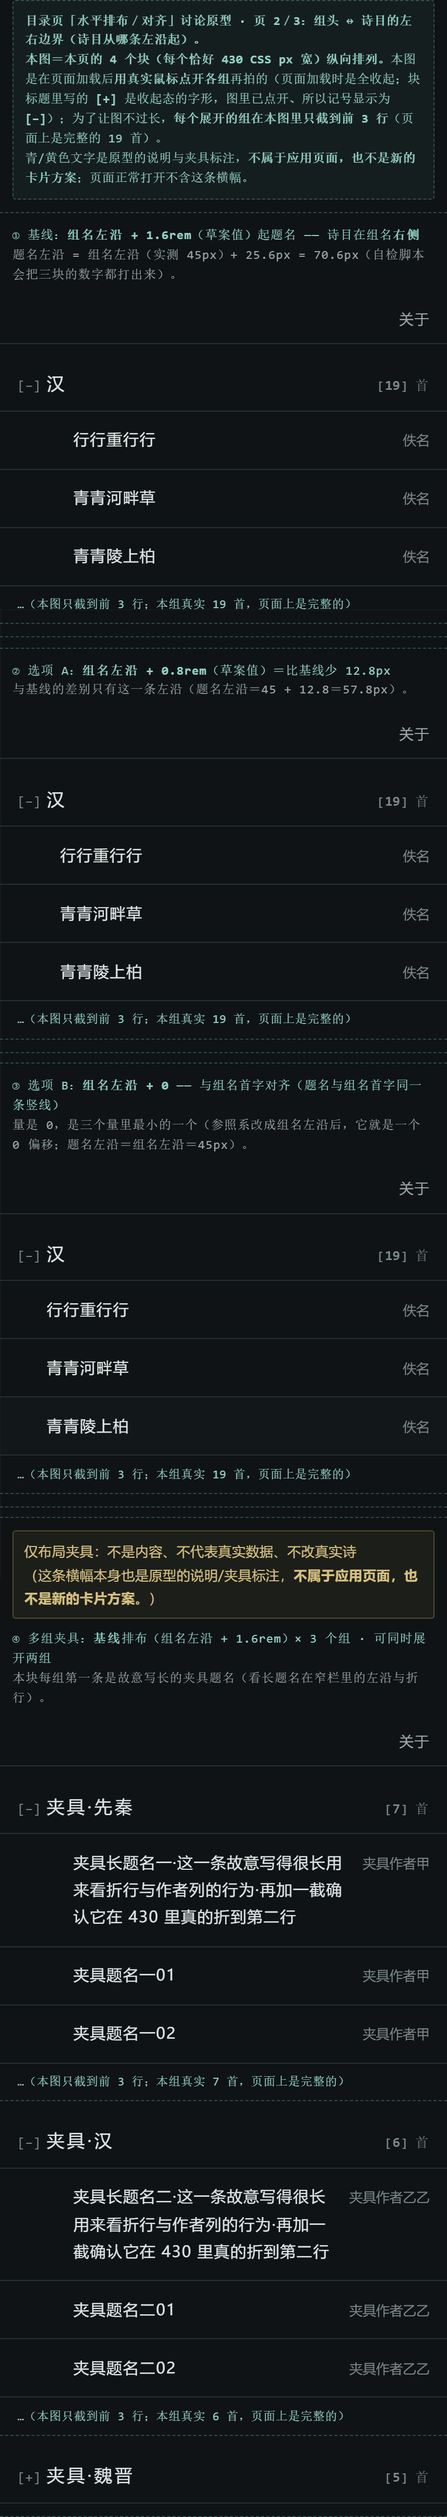
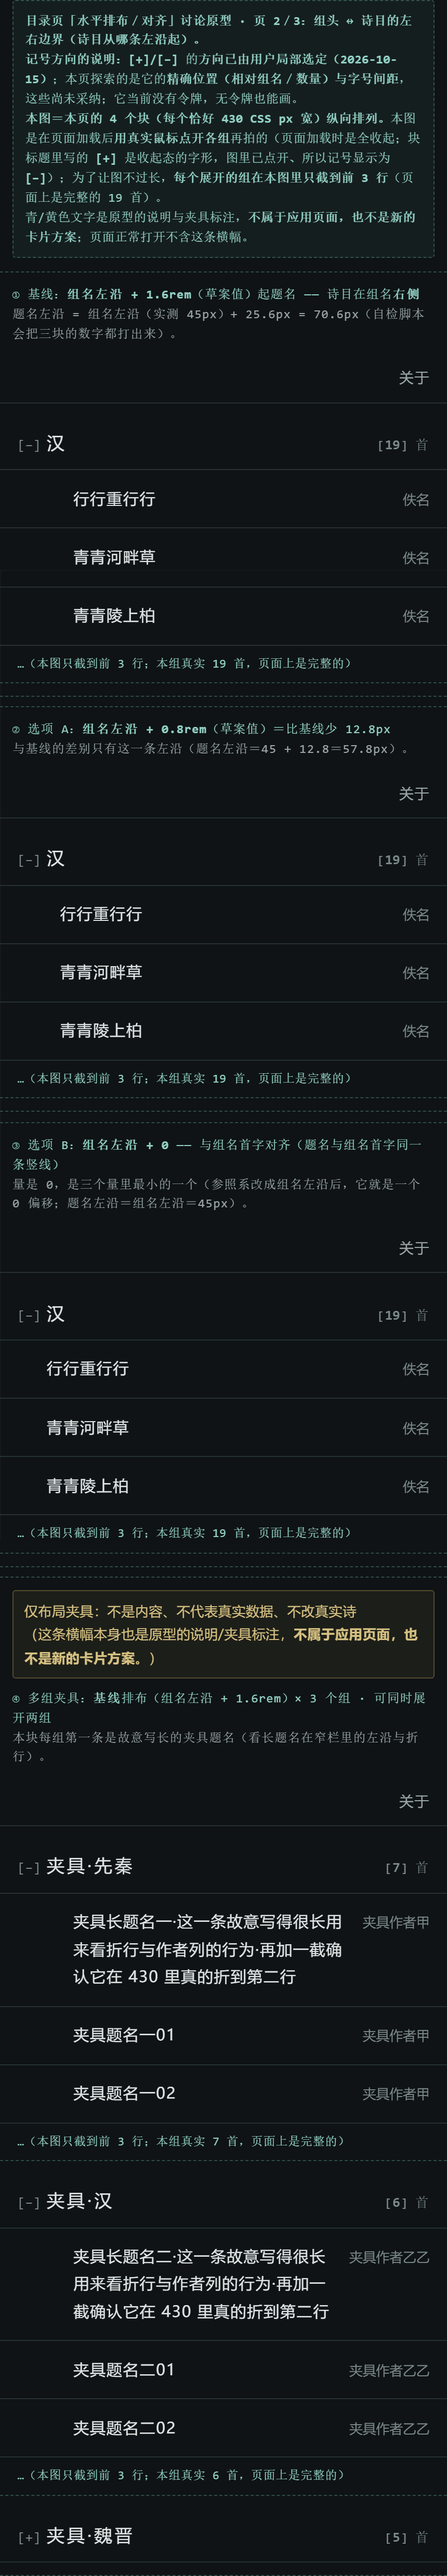
原型措辞返修：方括号记号的方向已局部选定（未采纳的是位置/字号/间距）
- 三页页内说明（「本页固定不变」那一条 + 页 1「两种方括号不是一回事」+ CSS 注释）改成：
  方向已由用户局部选定(2026-10-15)；本轮探索的是精确位置(相对组名/数量)与字号间距（尚未采纳）；
  方向已选不代表本页任何位置已定稿；当前无令牌、无令牌也能画
- 图首横幅也带同一句（图里能看到），三页 HTML 与三张 430 图重出
- q-hub-horizontal.md：同一口径（§1 不变清单、§5 输入依据、§8、§10 一并同步）
- q-hub-hierarchy.md：只加一条就地指针（§6 下），说明其「两个记号都不算已采纳」只对当时成立
- 断言逻辑未改，重跑 142 PASS / 0 FAIL

diff --git a/items/app-ui/prototypes/q-hub-horizontal.head.html b/items/app-ui/prototypes/q-hub-horizontal.head.html
@@ -215,7 +215,8 @@ html[data-shot="1"] .glist > .poemrow:nth-child(n+4) { display: none; }
   padding: 0.85rem var(--edge-x) 0.7rem;
   cursor: pointer;
 }
-/* [−] / [+] 只表达状态，是探索记号（不算已采纳、没有令牌） */
+/* [−] / [+] 只表达状态。它的**方向**已由用户局部选定（2026-10-15）；本轮探索的是它的
+ *   精确位置（相对组名／数量）与字号间距——尚未采纳；它当前没有令牌，无令牌也能画。 */
 .hub .gmark {
   flex: 0 0 auto;
   font-family: var(--font-mono);
@@ -287,11 +288,11 @@ html[data-shot="1"] .glist > .poemrow:nth-child(n+4) { display: none; }
       <li>视觉＝<b>静默终端令牌</b>（深墨底那套）；<b>不画卡片</b>：组头与页底同色，层级靠留白／缩进与发丝线。</li>
       <li>信息只有四项：<b>组名＋数量</b>、<b>诗题＋作者</b>（作者次要）；只有一个入口「<b>关于</b>」，<b>在顶部</b>。</li>
       <li>🚫 不出现：搜索／应用名／笔记标记／题名预览／状态位／版本号／其它任何信息。</li>
-      <li><code>[+]/[−]</code> 方括号开合记号<b>只表达状态</b>，是<b>探索记号</b>（不算已采纳、也没有令牌）。</li>
+      <li><code>[+]/[−]</code> 方括号开合记号<b>只表达状态</b>。<b>它的方向已由用户局部选定（2026-10-15）</b>；<b>本轮探索的是它的精确位置（相对组名／数量）与字号间距 —— 这些尚未采纳</b>，整页排布也尚未采纳。<b>方向已选，不代表本页任何位置是已定稿。</b>另：它<b>当前没有对应令牌</b>，这<b>不妨碍表达</b>（无令牌也能画）。</li>
       <li>行为（三页一致）：首次进入<b>全部收起</b>（单组也收起）· <b>整个组头可点</b>（组名／空白／数量／记号任一处）· 各组<b>独立</b>展开（<b>可同时展开两组</b>，不是手风琴）。</li>
     </ul>
     <p>这一页只改<b>组头内部</b>的水平排布：记号在组名的哪一侧、数量靠右还是紧跟。诗目那边（页 2 的维度）与题名／作者（页 3 的维度）本页<b>不动</b>，都按各自基线画。</p>
-    <p><b>两种方括号不是一回事</b>：<code>[+]/[−]</code> 是<b>状态记号</b>（探索记号，不算已采纳、没有令牌），数量的 <code>[19]</code> 是<b>计数记号</b>（令牌 §4.1 记号②）。本页要看的正是它们在水平方向上各自站在哪里。</p>
+    <p><b>两种方括号不是一回事</b>：<code>[+]/[−]</code> 是<b>状态记号</b>（<b>方向已由用户局部选定</b>，2026-10-15；本页探索的是它的<b>精确位置与字号间距</b>，这些尚未采纳；它当前没有令牌，无令牌也能画），数量的 <code>[19]</code> 是<b>计数记号</b>（令牌 §4.1 记号②）。本页要看的正是它们在水平方向上各自站在哪里。</p>
     <p>选项 A 里记号的槽宽 <code>1.7rem</code> 是<b>草案值</b>（规范里没有这个数）。三页的块左／右沿＝屏幕左／右沿（为了让每块恰好 430）；真机的页面留白这一层不在本轮表达。</p>
     <p>诗目缩进在三页都用<b>同一条规则</b>：<b>组名左沿 + 1.6rem（草案值）</b>。所以本页选项 A（悬挂）把组名左沿左移之后，<b>诗目缩进会跟着组名走</b>（相对量不变、绝对值变小）——见块 ② 的实测数字。</p>
     <p><b>块宽＝真实 430 CSS px</b>（四处对齐都按这个宽度渲染）；<b>真实内容（汉·19 首）与多组夹具分开</b>，夹具块有醒目标注。</p>
@@ -301,7 +302,7 @@ html[data-shot="1"] .glist > .poemrow:nth-child(n+4) { display: none; }
     <h2>【本页的四个块】① 基线 ②③ 两个选项 ④ 多组夹具</h2>
     <p class="sub">四个块各自独立、都在真实 430 CSS px 宽下渲染，都可点（首态全收起）。① ② ③ 用<b>真实内容</b>（汉·19 首），④ 用<b>多组夹具</b>。</p>
     <div class="shotframe" data-shotframe>
-      <div class="shotbanner"><b>目录页「水平排布／对齐」讨论原型 · 页 1／3：组头内部（记号相对组名的位置／数量的位置）。</b><br><b>本图＝本页的 4 个块（每个恰好 430 CSS px 宽）纵向排列。</b>本图是在页面加载后<b>用真实鼠标点开各组</b>再拍的（页面加载时是全收起；块标题里写的 <b>[+]</b> 是收起态的字形，图里已点开、所以记号显示为 <b>[−]</b>）；为了让图不过长，<b>每个展开的组在本图里只截到前 3 行</b>（页面上是完整的 19 首）。<br>青/黄色文字是原型的说明与夹具标注，<b>不属于应用页面，也不是新的卡片方案</b>；页面正常打开不含这条横幅。</div>
+      <div class="shotbanner"><b>目录页「水平排布／对齐」讨论原型 · 页 1／3：组头内部（记号相对组名的位置／数量的位置）。</b><br><b>记号方向的说明：</b><b>[+]/[−]</b> 的<b>方向已由用户局部选定（2026-10-15）</b>；本页探索的是它的<b>精确位置（相对组名／数量）与字号间距</b>，这些尚未采纳；它当前没有令牌，无令牌也能画。<br><b>本图＝本页的 4 个块（每个恰好 430 CSS px 宽）纵向排列。</b>本图是在页面加载后<b>用真实鼠标点开各组</b>再拍的（页面加载时是全收起；块标题里写的 <b>[+]</b> 是收起态的字形，图里已点开、所以记号显示为 <b>[−]</b>）；为了让图不过长，<b>每个展开的组在本图里只截到前 3 行</b>（页面上是完整的 19 首）。<br>青/黄色文字是原型的说明与夹具标注，<b>不属于应用页面，也不是新的卡片方案</b>；页面正常打开不含这条横幅。</div>
       <div class="rack">
     <div class="inst" data-block="b1">
       <div class="icap">① 基线：记号<b>紧贴</b>组名之前（<code>[+] 汉</code>）· 数量<b>右对齐</b>到块的右内沿<em>三页共用的基线组头排布（页 2／页 3 的所有块也用这一条）。诗行缩进沿用页 2 基线＝<b>组名左沿 + 1.6rem</b>（草案值），本页只看组头内部。</em></div>

diff --git a/items/app-ui/prototypes/q-hub-horizontal.title.html b/items/app-ui/prototypes/q-hub-horizontal.title.html
@@ -215,7 +215,8 @@ html[data-shot="1"] .glist > .poemrow:nth-child(n+4) { display: none; }
   padding: 0.85rem var(--edge-x) 0.7rem;
   cursor: pointer;
 }
-/* [−] / [+] 只表达状态，是探索记号（不算已采纳、没有令牌） */
+/* [−] / [+] 只表达状态。它的**方向**已由用户局部选定（2026-10-15）；本轮探索的是它的
+ *   精确位置（相对组名／数量）与字号间距——尚未采纳；它当前没有令牌，无令牌也能画。 */
 .hub .gmark {
   flex: 0 0 auto;
   font-family: var(--font-mono);
@@ -287,7 +288,7 @@ html[data-shot="1"] .glist > .poemrow:nth-child(n+4) { display: none; }
       <li>视觉＝<b>静默终端令牌</b>（深墨底那套）；<b>不画卡片</b>：组头与页底同色，层级靠留白／缩进与发丝线。</li>
       <li>信息只有四项：<b>组名＋数量</b>、<b>诗题＋作者</b>（作者次要）；只有一个入口「<b>关于</b>」，<b>在顶部</b>。</li>
       <li>🚫 不出现：搜索／应用名／笔记标记／题名预览／状态位／版本号／其它任何信息。</li>
-      <li><code>[+]/[−]</code> 方括号开合记号<b>只表达状态</b>，是<b>探索记号</b>（不算已采纳、也没有令牌）。</li>
+      <li><code>[+]/[−]</code> 方括号开合记号<b>只表达状态</b>。<b>它的方向已由用户局部选定（2026-10-15）</b>；<b>本轮探索的是它的精确位置（相对组名／数量）与字号间距 —— 这些尚未采纳</b>，整页排布也尚未采纳。<b>方向已选，不代表本页任何位置是已定稿。</b>另：它<b>当前没有对应令牌</b>，这<b>不妨碍表达</b>（无令牌也能画）。</li>
       <li>行为（三页一致）：首次进入<b>全部收起</b>（单组也收起）· <b>整个组头可点</b>（组名／空白／数量／记号任一处）· 各组<b>独立</b>展开（<b>可同时展开两组</b>，不是手风琴）。</li>
     </ul>
     <p>这一页只改<b>题名与作者的关系</b>。组头内部（页 1）与诗目左沿（页 2）本页<b>不动</b>，都用基线（组头 <code>[+] 汉</code>＋数量右对齐；诗目缩进＝<b>组名左沿 + 1.6rem</b> 草案值）。</p>
@@ -300,7 +301,7 @@ html[data-shot="1"] .glist > .poemrow:nth-child(n+4) { display: none; }
     <h2>【本页的四个块】① 基线 ②③ 两个选项 ④ 多组夹具</h2>
     <p class="sub">四个块各自独立、都在真实 430 CSS px 宽下渲染，都可点（首态全收起）。① ② ③ 用<b>真实内容</b>（汉·19 首，前面各插 1 条夹具长题名行），④ 用<b>多组夹具</b>。</p>
     <div class="shotframe" data-shotframe>
-      <div class="shotbanner"><b>目录页「水平排布／对齐」讨论原型 · 页 3／3：题名 ↔ 作者（右对齐成列／紧随题名／另起一行）。</b><br><b>本图＝本页的 4 个块（每个恰好 430 CSS px 宽）纵向排列。</b>本图是在页面加载后<b>用真实鼠标点开各组</b>再拍的（页面加载时是全收起；块标题里写的 <b>[+]</b> 是收起态的字形，图里已点开、所以记号显示为 <b>[−]</b>）；为了让图不过长，<b>每个展开的组在本图里只截到前 3 行</b>（页面上是完整的 19 首）。<br>青/黄色文字是原型的说明与夹具标注，<b>不属于应用页面，也不是新的卡片方案</b>；页面正常打开不含这条横幅。</div>
+      <div class="shotbanner"><b>目录页「水平排布／对齐」讨论原型 · 页 3／3：题名 ↔ 作者（右对齐成列／紧随题名／另起一行）。</b><br><b>记号方向的说明：</b><b>[+]/[−]</b> 的<b>方向已由用户局部选定（2026-10-15）</b>；本页探索的是它的<b>精确位置（相对组名／数量）与字号间距</b>，这些尚未采纳；它当前没有令牌，无令牌也能画。<br><b>本图＝本页的 4 个块（每个恰好 430 CSS px 宽）纵向排列。</b>本图是在页面加载后<b>用真实鼠标点开各组</b>再拍的（页面加载时是全收起；块标题里写的 <b>[+]</b> 是收起态的字形，图里已点开、所以记号显示为 <b>[−]</b>）；为了让图不过长，<b>每个展开的组在本图里只截到前 3 行</b>（页面上是完整的 19 首）。<br>青/黄色文字是原型的说明与夹具标注，<b>不属于应用页面，也不是新的卡片方案</b>；页面正常打开不含这条横幅。</div>
       <div class="rack">
     <div class="inst" data-block="b1">
       <div class="icap">① 基线：题名左、<b>作者右对齐成列</b>；长题名折行时<b>作者仍固定在右列</b>（不跟随折行）<em>第 1 行（虚线框）是夹具长题名：看它折行时作者是否还在右列。</em></div>

diff --git a/items/app-ui/prototypes/q-hub-horizontal.body.html b/items/app-ui/prototypes/q-hub-horizontal.body.html
@@ -216,7 +216,8 @@ html[data-shot="1"] .glist > .poemrow:nth-child(n+4) { display: none; }
   padding: 0.85rem var(--edge-x) 0.7rem;
   cursor: pointer;
 }
-/* [−] / [+] 只表达状态，是探索记号（不算已采纳、没有令牌） */
+/* [−] / [+] 只表达状态。它的**方向**已由用户局部选定（2026-10-15）；本轮探索的是它的
+ *   精确位置（相对组名／数量）与字号间距——尚未采纳；它当前没有令牌，无令牌也能画。 */
 .hub .gmark {
   flex: 0 0 auto;
   font-family: var(--font-mono);
@@ -288,7 +289,7 @@ html[data-shot="1"] .glist > .poemrow:nth-child(n+4) { display: none; }
       <li>视觉＝<b>静默终端令牌</b>（深墨底那套）；<b>不画卡片</b>：组头与页底同色，层级靠留白／缩进与发丝线。</li>
       <li>信息只有四项：<b>组名＋数量</b>、<b>诗题＋作者</b>（作者次要）；只有一个入口「<b>关于</b>」，<b>在顶部</b>。</li>
       <li>🚫 不出现：搜索／应用名／笔记标记／题名预览／状态位／版本号／其它任何信息。</li>
-      <li><code>[+]/[−]</code> 方括号开合记号<b>只表达状态</b>，是<b>探索记号</b>（不算已采纳、也没有令牌）。</li>
+      <li><code>[+]/[−]</code> 方括号开合记号<b>只表达状态</b>。<b>它的方向已由用户局部选定（2026-10-15）</b>；<b>本轮探索的是它的精确位置（相对组名／数量）与字号间距 —— 这些尚未采纳</b>，整页排布也尚未采纳。<b>方向已选，不代表本页任何位置是已定稿。</b>另：它<b>当前没有对应令牌</b>，这<b>不妨碍表达</b>（无令牌也能画）。</li>
       <li>行为（三页一致）：首次进入<b>全部收起</b>（单组也收起）· <b>整个组头可点</b>（组名／空白／数量／记号任一处）· 各组<b>独立</b>展开（<b>可同时展开两组</b>，不是手风琴）。</li>
     </ul>
     <p>这一页只改<b>诗行的左沿</b>（题名的左沿）：<b>相对组头（组名左沿）的缩进量</b>。组头内部（页 1 的维度）与题名／作者（页 3 的维度）本页<b>不动</b>，都按基线画。</p>
@@ -301,7 +302,7 @@ html[data-shot="1"] .glist > .poemrow:nth-child(n+4) { display: none; }
     <h2>【本页的四个块】① 基线 ②③ 两个选项 ④ 多组夹具</h2>
     <p class="sub">四个块各自独立、都在真实 430 CSS px 宽下渲染，都可点（首态全收起）。① ② ③ 用<b>真实内容</b>（汉·19 首），④ 用<b>多组夹具</b>。</p>
     <div class="shotframe" data-shotframe>
-      <div class="shotbanner"><b>目录页「水平排布／对齐」讨论原型 · 页 2／3：组头 ↔ 诗目的左右边界（诗目从哪条左沿起）。</b><br><b>本图＝本页的 4 个块（每个恰好 430 CSS px 宽）纵向排列。</b>本图是在页面加载后<b>用真实鼠标点开各组</b>再拍的（页面加载时是全收起；块标题里写的 <b>[+]</b> 是收起态的字形，图里已点开、所以记号显示为 <b>[−]</b>）；为了让图不过长，<b>每个展开的组在本图里只截到前 3 行</b>（页面上是完整的 19 首）。<br>青/黄色文字是原型的说明与夹具标注，<b>不属于应用页面，也不是新的卡片方案</b>；页面正常打开不含这条横幅。</div>
+      <div class="shotbanner"><b>目录页「水平排布／对齐」讨论原型 · 页 2／3：组头 ↔ 诗目的左右边界（诗目从哪条左沿起）。</b><br><b>记号方向的说明：</b><b>[+]/[−]</b> 的<b>方向已由用户局部选定（2026-10-15）</b>；本页探索的是它的<b>精确位置（相对组名／数量）与字号间距</b>，这些尚未采纳；它当前没有令牌，无令牌也能画。<br><b>本图＝本页的 4 个块（每个恰好 430 CSS px 宽）纵向排列。</b>本图是在页面加载后<b>用真实鼠标点开各组</b>再拍的（页面加载时是全收起；块标题里写的 <b>[+]</b> 是收起态的字形，图里已点开、所以记号显示为 <b>[−]</b>）；为了让图不过长，<b>每个展开的组在本图里只截到前 3 行</b>（页面上是完整的 19 首）。<br>青/黄色文字是原型的说明与夹具标注，<b>不属于应用页面，也不是新的卡片方案</b>；页面正常打开不含这条横幅。</div>
       <div class="rack">
     <div class="inst" data-block="b1">
       <div class="icap">① 基线：<b>组名左沿 + 1.6rem</b>（草案值）起题名 —— 诗目在组名<b>右侧</b><em>题名左沿 = 组名左沿（实测 45px）+ 25.6px = 70.6px（自检脚本会把三块的数字都打出来）。</em></div>

diff --git a/items/app-ui/prototypes/q-hub-horizontal.md b/items/app-ui/prototypes/q-hub-horizontal.md
@@ -7,9 +7,9 @@
 >
 > | 页 | 维度 | 页面 | 图（860 px 宽 @DPR 2） |
 > |---|---|---|---|
-> | 1 | **组头内部**：记号相对组名的位置／数量的位置 | `items/app-ui/prototypes/q-hub-horizontal.head.html` | `q-hub-horizontal.head.430.png`（860×4954，626,610 字节） |
-> | 2 | **组头 ↔ 诗目的左右边界**：诗目从哪条左沿起 | `items/app-ui/prototypes/q-hub-horizontal.body.html` | `q-hub-horizontal.body.430.png`（860×4842，545,081 字节） |
-> | 3 | **题名 ↔ 作者**：右对齐成列／紧随题名／另起一行 | `items/app-ui/prototypes/q-hub-horizontal.title.html` | `q-hub-horizontal.title.430.png`（860×5350，644,884 字节） |
+> | 1 | **组头内部**：记号相对组名的位置／数量的位置 | `items/app-ui/prototypes/q-hub-horizontal.head.html` | `q-hub-horizontal.head.430.png`（860×5068，665,663 字节） |
+> | 2 | **组头 ↔ 诗目的左右边界**：诗目从哪条左沿起 | `items/app-ui/prototypes/q-hub-horizontal.body.html` | `q-hub-horizontal.body.430.png`（860×4954，586,959 字节） |
+> | 3 | **题名 ↔ 作者**：右对齐成列／紧随题名／另起一行 | `items/app-ui/prototypes/q-hub-horizontal.title.html` | `q-hub-horizontal.title.430.png`（860×5464，685,886 字节） |
 >
 > 自检脚本（可复跑，验的是这三个页面的**页面行为**）：`items/app-ui/prototypes/check-horizontal.mjs`
 > （上表里的字节数是**某一次实跑的记录**；PNG 字节数会随 Chromium／字体渲染有微小差别，见 §9 的副作用说明。像素尺寸 860×N 是稳定的。）
@@ -32,7 +32,7 @@
 
 - **视觉**：静默终端令牌（深墨底那套）；**不画卡片**（组头与页底同色）。
 - **层级靠留白／缩进**（诗目相对组名缩进形成层级）——**已选**。
-- `[+]/[−]` 方括号开合记号**只表达状态**，是**探索记号**（不算已采纳、也没有令牌）。
+- `[+]/[−]` 方括号开合记号**只表达状态**。**它的方向已由用户局部选定（2026-10-15）**；**本轮探索的是它的精确位置（相对组名／数量）与字号间距 —— 这些尚未采纳**，整页排布也尚未采纳。**方向已选，不代表本页任何位置是已定稿。** 另：它**当前没有对应令牌**，这**不妨碍表达**（无令牌也能画）。
 - **「关于」在顶部**（只此一项入口）。
 - **信息只有**：组名＋数量；诗题＋作者（作者次要）。
 - 🚫 **不出现**：搜索、应用名、笔记标记、题名预览、**状态位**、版本号、任何其它信息。
@@ -62,6 +62,7 @@
   2. 再用**真实鼠标点开各组**，然后截图（所以图里记号是 `[−]`，而块标题里写的 `[+]` 是**收起态**的字形）；
   3. 为了让图不过长，`…html#shot` 这个**看图模式**把每个展开的组显示为**前 3 行 + 一条青色说明条**（「本图只截到前 3 行；本组真实 19 首，页面上是完整的」）。**页面上打开时是完整的 19 首，没有截断**；`#shot` 只影响截图，不改变任何排布、也不改变首态（自检脚本在 `#shot` 下重查了一次「首态全收起」）。
   4. 图里每块**恰好 430 CSS px 宽**、纵向排列，图宽 860 px（DPR 2）。
+  5. 图首那条**横幅**（＝原型的说明/夹具标注）里也带一句**记号方向的说明**：`[+]/[−]` 的**方向已由用户局部选定**，本页探索的是它的**精确位置与字号间距**（尚未采纳）。页面正文里同一口径写在「本页固定不变」那一条。
 - **页 3 的夹具长题名行**：真实 19 首的题名都只有 5 个字，**本机没有真实长题名**，所以每块的第 1 行是一条**夹具长题名**，用**虚线框**标出（虚线框是夹具行的标注，不属于应用页面，也不是新的卡片方案）；它**不是诗、不计入 `[19] 首`**（组头数量仍是真实的 19）。
 - **页 2 的一个读图要点**：诗目缩进**一律相对「组名左沿」量**（＝**组名右侧向右推多少**），不是相对块左沿。基线组头的组名左沿实测在 **45px**，所以：基线＝45 + 25.6＝**70.6px**、选项 A＝45 + 12.8＝**57.8px**、选项 B＝45 + 0＝**45px**。三块是**同一个方向上的三个量**：+0 → +0.8rem → +1.6rem（基线），**诗目永远在组名右侧或与之对齐**（层级方向不会反）。
   ⚠ **一条更正（诚实注明）**：更早的一版把缩进**从块左沿量**，于是「1.6rem」落在 25.6px、**比组名左沿（45px）还靠左** —— 层级方向反了，且三个选项里**没有一个是「诗目缩进在组名右侧」**。现已改为**相对组名左沿**量；三页（含页 1 的悬挂选项：组名左沿 27.2 ⇒ 题名 52.8）都按这一条规则重出。
@@ -113,7 +114,7 @@
 |---|---|
 | 任务书（本轮） | 三页的形式、每页的基线与选项、430 真实宽度、可点与首态、五个维度、要出 `q-*` 页面＋430 图＋自检脚本＋本 `.md` |
 | `items/app-ui/item.md`（**只读，未改**） | 页面信息项（组名＋数量、题名、关于入口；不要搜索／笔记标记／题名预览） |
-| 上一轮材料 `q-hub-hierarchy.*`（**只读，未改**） | 已确认的行为与已经选定的视觉（静默终端、不画卡片、方括号记号、关于在顶部）；本轮**不重复提问** |
+| 上一轮材料 `q-hub-hierarchy.*`（**只读**） | 已确认的行为与已经选定的视觉（静默终端、不画卡片、**方括号记号的方向已选**、关于在顶部）；本轮**不重复提问**。⚠ 本轮只在它的 `.md` §6 下加了**一条就地指针**（说明记号方向已选、未选的是位置／字号／间距），**没有**重写它 |
 | 用户已答的 q（见上一轮 `.md` §3） | 首次全部收起（含单组）／整个组头可点击／各组独立展开／目录页不显示应用名 |
 | `docs/design/visual-tokens.md` §2/§3/§4/§4.1 | 颜色、排版、间距形状、结构记号（计数 `[19]` 的方括号） |
 | `prototype/css/theme-tech.css`（**只读，未改**） | 令牌的**活来源**；三页的内嵌快照逐值照抄它（见 §9）；该文件相对 HEAD 无改动，提交 `257de5a` |
@@ -163,6 +164,7 @@
 - 三页之间**互相独立**：可以「页 1 选 A ＋ 页 2 选 B ＋ 页 3 用基线」，我不会把它们当成一个整体包。
 - **没有推荐项**：三个块（基线／选项 A／选项 B）是**并列**的，本材料不排序、不衬托、不标注「建议」。
 - 基线也**不是默认答案**，它只是「三页共用、用来对照的那一条」。
+- ⚠ **记号方向已选 ≠ 本页任何位置已定稿**：`[+]/[−]` 这个**方向**已由用户局部选定（2026-10-15）；本轮的选项谈的是它的**精确位置（相对组名／数量）与字号间距**，这些**尚未采纳**。
 
 ---
 
@@ -226,7 +228,7 @@ exit=2
 
 ## 10. 我没做／没验的部分（诚实列出）
 
-- **没有**实现任何产品界面：没碰 `web/`、`android/`、`content/`、`tools/`、`schema/`、`docs/`、`prototype/`；**没有改** `items/app-ui/item.md`，**没有改**上一轮 `q-hub-hierarchy.*`。
+- **没有**实现任何产品界面：没碰 `web/`、`android/`、`content/`、`tools/`、`schema/`、`docs/`、`prototype/`；**没有改** `items/app-ui/item.md`。上一轮 `q-hub-hierarchy.*` 只改了它的 `.md`（在 §6 下加**一条就地指针**，说明记号方向已选；其余一字未动，HTML、图、自检脚本都没碰）。
 - **没有**任何真机／模拟器验收，也**没有跑**仓库既有的产品测试（`web/tests`、Android 测试等）——本轮的实测只覆盖**这三个原型页面**。
 - **没有**跨浏览器验证：只在**本机 Chromium**（无头、`--hide-scrollbars`）上量过；Safari／Firefox／Android WebView／iOS 的渲染差异**未知**。
 - **没有**做键盘走查、读屏实读、对比度复测、字号放大（系统字体缩放）后的实测。

diff --git a/items/app-ui/prototypes/q-hub-hierarchy.md b/items/app-ui/prototypes/q-hub-hierarchy.md
@@ -84,6 +84,8 @@
 
 ## 6. `▸ ▾` 与 `[+] [−]` **都是探索记号**（不算已采纳）
 
+> ⚠ **后续（2026-10-15）**：用户**局部选定**了方括号 `[+]/[−]` 的**方向** ⇒ 本文档里「两个记号都不算已采纳」的说法（§6 本节、§13 第 2 条）只**对当时**成立；现在**未采纳的是精确位置／字号／间距**，**方向已选**（下一轮材料：`q-hub-horizontal.md` 与 `q-hub-horizontal.{head,body,title}.html`）。
+
 - 这套视觉**没有**对应这两个记号的令牌，规范 §4.1 里也没有它们；
 - **没有令牌也不影响做**：这里就用**字形本身**表达（`▸` U+25B8 / `▾` U+25BE；`[+]` `[−]` 用 U+2212）；
 - 它们**只是「把状态标出来」的一种写法**，**不要读成定了的规格**；
